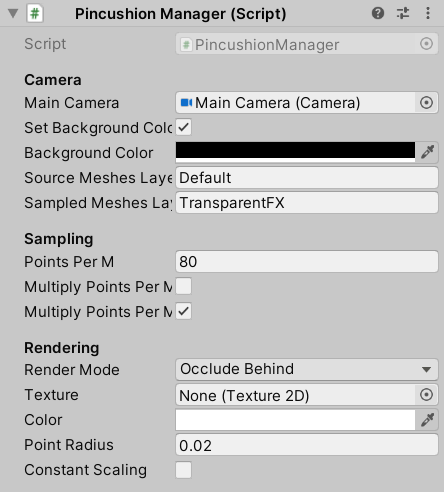
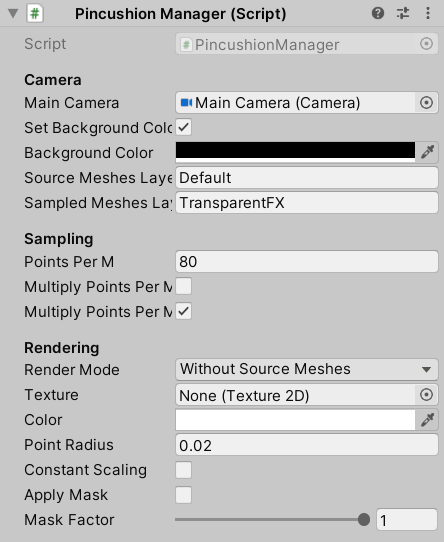
documentation

diff --git a/pincushion/src/mask.rs b/pincushion/src/mask.rs
@@ -1,5 +1,7 @@
 //! These functions create a boolean mask for an array of a given size, and given a factor.
-//! This is meant to be used in Unity for a rendering shader.
+//! For example, if there are 3500 elements in an array and the factor is 0.5, then 1750 of the elements will be "true".
+//! "True" is in quotes because we're using u32s, not booleans.
+//! We're not using booleans because this is meant to be used in Unity for a rendering shader, and shaders want 32bit types.
 
 use rand::{seq::SliceRandom, thread_rng};
 use safer_ffi::ffi_export;

diff --git a/README.md b/README.md
@@ -61,10 +61,12 @@ This repo has three components:
 | Multiply Points Per M By Camera Distance | If true, multiply the number of points by the object's initial distance from the camera. |
 | Multiply Points Per M By Object Scale | If true, multiply the number of points by the object's initial uniform scale. |
 | Render Mode | This controls how Pincushion is rendered (see below). |
-| Texture | The texture of each point. |
+| Texture | The texture of each point. Can be null, in which case a default texture is used. |
 | Color | The color of each point. |
 | Point Radius | The radius of each point in meters. |
 | Constant Scaling | If true, every point will render at the same size. |
+| Apply Mask | If true, apply a mask. A fraction of the sampled points defined by `Mask Factor` will be rendered. |
+| Mask Factor | A factor between 0 and 1 that controls how many points will be skipped when rendering. |
 
 ### Render Modes
 
@@ -98,6 +100,13 @@ You can reinitialize Pincushion by doing the following:
 
 This works for all `PincushionManager` parameters, including the Render Mode.
 
+### Examples
+
+Example scenes are in `UnityExample/Assets/Scenes/`
+
+- `SampleScene` has a basic Pincushion setup with two MeshRenderers.
+- `ApplyMask` has a slider that you can drag to adjust the rendering mask.
+
 ## Usage (Rust)
 
 Pincushion can alternatively be used in a native Rust context.
@@ -124,6 +133,7 @@ fn main() {
 ### Features
 
 - `obj` adds a `Mesh::from_obj(path)` function to load a mesh from a .obj file.
+- `mask` adds a few FFI-safe functions to apply a "mask", showing/hiding some elements in an array. This is meant to be used in Unity and probably isn't useful elsewhere. 
 - `cs` should only be enabled when generating the C# code (see below).
 
 ### Create C# Native Bindings

diff --git a/doc/readme_template.md b/doc/readme_template.md
@@ -58,10 +58,12 @@ This repo has three components:
 | Multiply Points Per M By Camera Distance | If true, multiply the number of points by the object's initial distance from the camera. |
 | Multiply Points Per M By Object Scale | If true, multiply the number of points by the object's initial uniform scale. |
 | Render Mode | This controls how Pincushion is rendered (see below). |
-| Texture | The texture of each point. |
+| Texture | The texture of each point. Can be null, in which case a default texture is used. |
 | Color | The color of each point. |
 | Point Radius | The radius of each point in meters. |
 | Constant Scaling | If true, every point will render at the same size. |
+| Apply Mask | If true, apply a mask. A fraction of the sampled points defined by `Mask Factor` will be rendered. |
+| Mask Factor | A factor between 0 and 1 that controls how many points will be skipped when rendering. |
 
 ### Render Modes
 
@@ -94,6 +96,13 @@ You can reinitialize Pincushion by doing the following:
 2. Call Set(): `PincushionManager.Set()`
 
 This works for all `PincushionManager` parameters, including the Render Mode.
+
+### Examples
+
+Example scenes are in `UnityExample/Assets/Scenes/`
+
+- `SampleScene` has a basic Pincushion setup with two MeshRenderers.
+- `ApplyMask` has a slider that you can drag to adjust the rendering mask.
 
 ## Usage (Rust)
 

diff --git a/doc/readme_rs.md b/doc/readme_rs.md
@@ -1,6 +1,7 @@
 ### Features
 
 - `obj` adds a `Mesh::from_obj(path)` function to load a mesh from a .obj file.
+- `mask` adds a few FFI-safe functions to apply a "mask", showing/hiding some elements in an array. This is meant to be used in Unity and probably isn't useful elsewhere. 
 - `cs` should only be enabled when generating the C# code (see below).
 
 ### Create C# Native Bindings

diff --git a/doc/readme_rs_template.md b/doc/readme_rs_template.md
@@ -1,6 +1,7 @@
 ### Features
 
 - `obj` adds a `Mesh::from_obj(path)` function to load a mesh from a .obj file.
+- `mask` adds a few FFI-safe functions to apply a "mask", showing/hiding some elements in an array. This is meant to be used in Unity and probably isn't useful elsewhere. 
 - `cs` should only be enabled when generating the C# code (see below).
 
 ### Create C# Native Bindings
